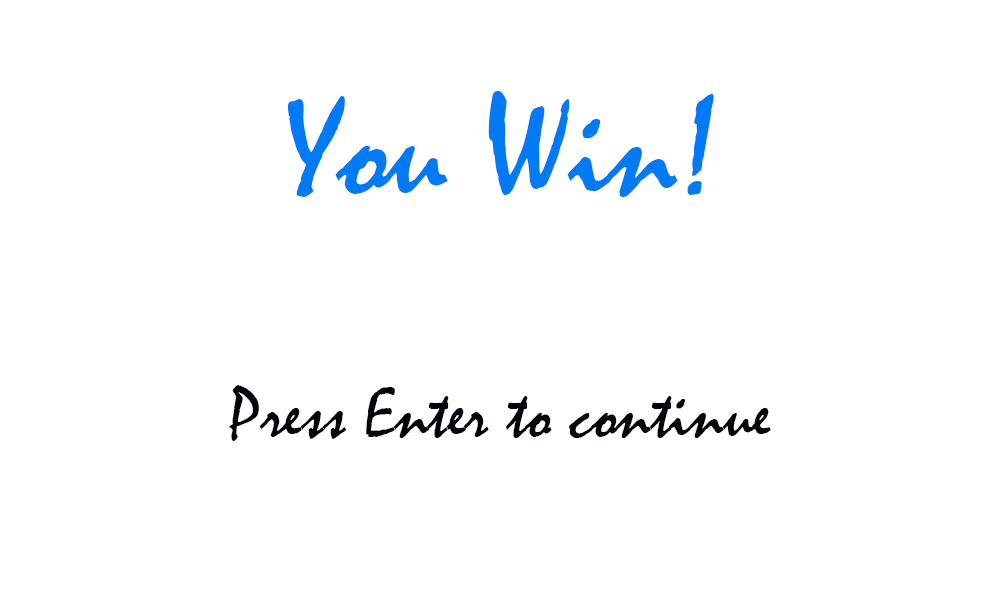
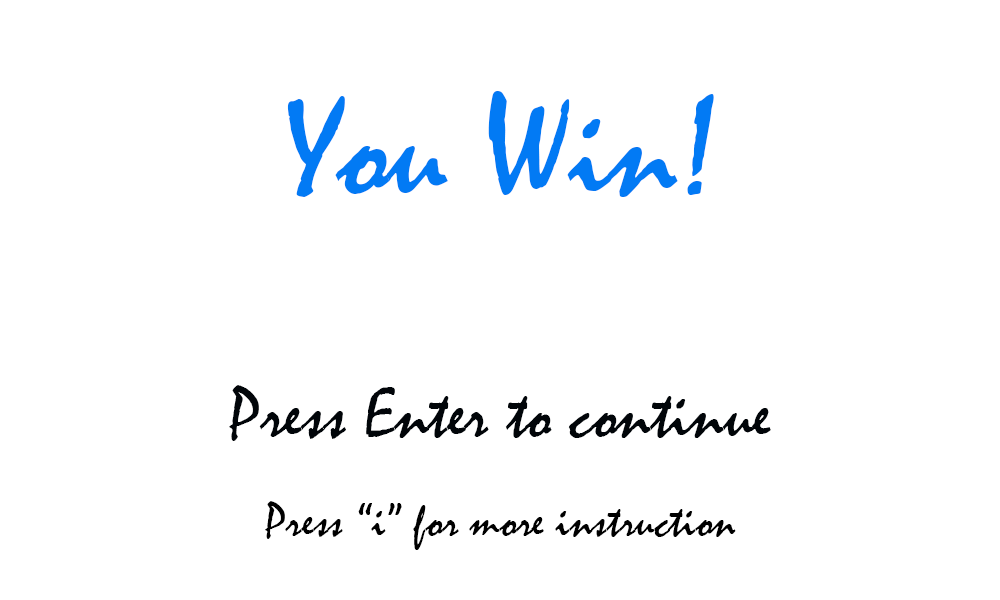
16/11 1st commit

Changed region(s): [[0.341, 0.84, 0.744, 0.93], [0.248, 0.84, 0.341, 0.9]]

diff --git a/core/src/com/mygdx/game/InstructionScreen.java b/core/src/com/mygdx/game/InstructionScreen.java
@@ -2,41 +2,37 @@ package com.mygdx.game;
 
 import com.badlogic.gdx.Gdx;
 import com.badlogic.gdx.Input.Keys;
-import com.badlogic.gdx.audio.Sound;
 import com.badlogic.gdx.ScreenAdapter;
+import com.badlogic.gdx.audio.Sound;
 import com.badlogic.gdx.graphics.Texture;
 import com.badlogic.gdx.graphics.g2d.SpriteBatch;
 
-public class MenuScreen extends ScreenAdapter{
+public class InstructionScreen extends ScreenAdapter{
 	private MountainClimberGame mountainclimbergame;
-	private Texture menuImg;
+	private Texture instructionImg;
 	private SpriteBatch batch;
-	public static Sound bgmMenu;
+	private Sound bgm;
+	private MenuScreen menuscreen;
 	
-	public MenuScreen(MountainClimberGame mountainclimbergame) {
+	public InstructionScreen(MountainClimberGame mountainclimbergame) {
 		this.mountainclimbergame = mountainclimbergame;
 		batch = mountainclimbergame.batch;
-		menuImg = new Texture("menu01.png");
-		bgmMenu = Gdx.audio.newSound(Gdx.files.internal("bgm01.mp3"));
-		bgmMenu.loop();
-		bgmMenu.play();
+		instructionImg = new Texture("instruction01.png");
 	}
 	
 	public void render(float delta) {
 		update(delta);
 		batch.begin();
-		
-		batch.draw(menuImg, 0, 0);
+		batch.draw(instructionImg, 0, 0);
 		batch.end();
 	}
 	
 	public void update(float delta) {
 		if(Gdx.input.isKeyPressed(Keys.ENTER)) {
+			menuscreen.bgmMenu.stop();
 			mountainclimbergame.setScreen(new GameScreen(mountainclimbergame));
-			bgmMenu.stop();
-		}
-		if(Gdx.input.isKeyPressed(Keys.I)) {
-			mountainclimbergame.setScreen(new InstructionScreen(mountainclimbergame));
+			
 		}
 	}
 }
+

diff --git a/core/src/com/mygdx/game/Character.java b/core/src/com/mygdx/game/Character.java
@@ -20,6 +20,7 @@ public class Character {
     private int currentDirection;
     private int nextDirection;
     private World world;
+    public int canMove = 1;
     
     public Character(int x, int y, World world) {
         position = new Vector2(x,y);
@@ -58,28 +59,33 @@ public class Character {
         	}
         	if(level.hasTrap03At(getRow(), getColumn()))
         	{
+        		canMove = 0;
         		position.x += 40;
         	}
         	if(level.hasTrap04At(getRow(), getColumn()))
         	{
+        		canMove = 0;
         		position.y -= 40;
         	}
         	if(level.hasTrap05At(getRow(), getColumn()))
         	{
+        		canMove = 0;
         		position.x -= 40;
         	}
         	if(level.hasTrap06At(getRow(), getColumn()))
         	{
+        		canMove = 0;
         		position.y += 40;
         	}
         	if(level.hasExitAt(getRow(), getColumn()))
         	{
         		level.endAt(getRow(), getColumn());
         	}
-            if(canMoveInDirection(nextDirection)) {
+            if(canMoveInDirection(nextDirection)&&canMove ==1) {
                 currentDirection = nextDirection;    
             } else {
-                currentDirection = DIRECTION_STILL;    
+                currentDirection = DIRECTION_STILL;   
+                canMove = 1;
             }
         }
         position.x += SPEED * DIR_OFFSETS[currentDirection][0];

diff --git a/core/src/com/mygdx/game/Level.java b/core/src/com/mygdx/game/Level.java
@@ -10,7 +10,7 @@ import com.badlogic.gdx.scenes.scene2d.ui.List;
 public class Level {
 	private String[] MAP = new String [] {
             "#########################",
-            "# d      X       .    e #",
+            "# ddd dddX       .    e #",
             "#  w       e            #",
             "#    X                  #",
             "# s          X          #",

diff --git a/core/src/com/mygdx/game/EndScreen.java b/core/src/com/mygdx/game/EndScreen.java
@@ -29,5 +29,11 @@ public class EndScreen extends ScreenAdapter{
 			mountainclimbergame.setScreen(new GameScreen(mountainclimbergame));
 			Level.wonStat = 0;
 		}
+		if(Gdx.input.isKeyPressed(Keys.I)) {
+			mountainclimbergame.setScreen(new InstructionScreen(mountainclimbergame));
+			Level.wonStat = 0;
+		}
+			
+		
 	}
 }

diff --git a/core/src/com/mygdx/game/GameOverScreen.java b/core/src/com/mygdx/game/GameOverScreen.java
@@ -35,5 +35,10 @@ public class GameOverScreen extends ScreenAdapter{
 			Level.deadStat = 0;
 			bgm.stop();
 		}
+		if(Gdx.input.isKeyPressed(Keys.I)) {
+			mountainclimbergame.setScreen(new InstructionScreen(mountainclimbergame));
+			Level.deadStat = 0;
+			bgm.stop();
+		}
 	}
 }
